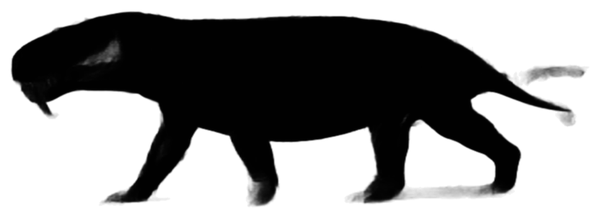
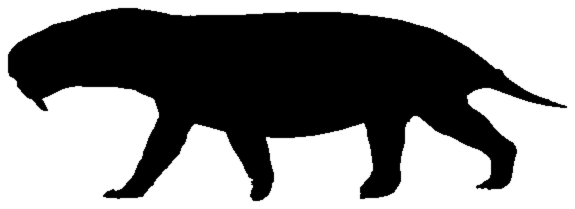
fix(dino): Saurolophus hero + 8 ombres nettoyees + 3 bugs de match de fiche
Audit des 70 dinos (assets vs data vs disque + revue visuelle des 69 ombres).

Saurolophus etait le seul trou complet : fiche data et 5 MP3 presents, mais
zero image, absent de DINO_ASSETS et de DINO_EXTRAS (hero 404, galerie vide).
Hero paleoart genere et valide (crete d'os plein courte, dressee arriere-haut,
conforme au fossile). Les 70 dinos ont desormais un hero.

Trois bugs de generation corriges dans les scripts du skill dino-images-lunii :
- ficheBlock matchait par sous-chaine sans \b : Saurolophus heritait de la
  fiche Parasaurolophus, injectant une crete "tubulaire creuse" (faux, c'est
  justement le trait qui distingue les deux). Verifie : seul ce dino change,
  les 69 autres gardent leur bloc a l'identique.
- '[\s\S]' dans une string s'ecrase en '[sS]' (batch-dino-ombre et
  batch-dino-coloriage) : ficheBlock n'y matchait jamais rien, ces deux
  scripts generaient sans specs morphologiques depuis leur creation.
- delimiteur de fin '### \?' au lieu du caractere '### ❓'.

Ombres : 8 PNG portaient un halo de bavure (alpha semi-transparent parasite
sur 2 a 6 % de l'image, silhouette floue au lieu d'un papier decoupe net).
clean_ombre.py seuille l'alpha, jette les ilots detaches et recadre ; halos
divises par 2 a 4, silhouettes verifiees une a une (pattes, piques, queues
preservees).

Reste ouvert : ombre Saurolophus (le script rend un degrade flou inutilisable,
ombre_from_hero.py pose la piste du detourage mais le decor de foret dense
[…]

diff --git a/site/js/dinos-assets.js b/site/js/dinos-assets.js
@@ -1018,5 +1018,14 @@ window.DINO_ASSETS = {
    "manger": "img/dinos/paleoart/Velociraptor_manger.jpg",
    "paris": "img/dinos/paleoart/Velociraptor_paris.jpg"
   }
+ },
+ "Saurolophus": {
+  "ombre": null,
+  "sprite": null,
+  "tete": null,
+  "avatar": null,
+  "paleoart": {
+   "hero": "img/dinos/paleoart/Saurolophus.jpg"
+  }
  }
 };

diff --git a/studio/dino/content/scripts/images-grok/clean_ombre.py b/studio/dino/content/scripts/images-grok/clean_ombre.py
@@ -1,0 +1,150 @@
+#!/usr/bin/env python
+"""Nettoie le halo de bavure d'une ombre chinoise PNG (alpha semi-transparent parasite).
+
+Probleme traite : les ombres derivees d'images generees gardent une trainee grise
+diffuse autour de la silhouette (alpha entre 20 et 200 sur plusieurs % de l'image).
+A l'ecran, la silhouette parait floue et sale au lieu d'etre un papier decoupe net.
+
+Methode : seuillage franc de l'alpha (binaire), suppression des ilots detaches
+(le halo forme des taches non connectees au sujet), puis re-adoucissement leger
+d'un seul pixel pour garder un bord propre sans escalier. Recadre sur le contenu.
+
+Usage: python clean_ombre.py <in.png> [out.png] [--seuil 128] [--min-ilot 0.002] [--dry]
+       python clean_ombre.py --batch <dir> [...]        (traite tous les *_ombre.png)
+"""
+import sys
+import os
+import glob
+from collections import deque
+
+from PIL import Image, ImageFilter
+
+SEUIL_DEFAUT = 128       # alpha >= seuil -> opaque, sinon transparent
+MIN_ILOT_DEFAUT = 0.002  # un ilot < 0.2% des pixels opaques est du bruit, on le jette
+PAD = 6                  # marge conservee autour du sujet apres recadrage
+
+
+def _plus_gros_ilots(mask, w, h, min_ratio):
+    """Garde les composantes connexes significatives. Retourne un nouveau masque.
+
+    Le halo de bavure se presente en taches detachees du sujet : on les identifie
+    par connexite 8 puis on ne conserve que celles qui pesent assez lourd par
+    rapport a la plus grosse (le sujet). Les pattes fines restent connectees au
+    corps, elles ne sont donc jamais victimes de ce filtre.
+    """
+    total = sum(mask)
+    if total == 0:
+        return mask, 0
+
+    labels = bytearray(w * h)
+    tailles = []
+    for depart in range(w * h):
+        if not mask[depart] or labels[depart]:
+            continue
+        idx = len(tailles) + 1
+        if idx > 250:  # garde-fou : au-dela on ne sait plus etiqueter dans un bytearray
+            break
+        taille = 0
+        q = deque([depart])
+        labels[depart] = idx
+        while q:
+            p = q.popleft()
+            taille += 1
+            x, y = p % w, p // w
+            for dy in (-1, 0, 1):
+                for dx in (-1, 0, 1):
+                    nx, ny = x + dx, y + dy
+                    if 0 <= nx < w and 0 <= ny < h:
+                        np_ = ny * w + nx
+                        if mask[np_] and not labels[np_]:
+                            labels[np_] = idx
+                            q.append(np_)
+        tailles.append(taille)
+
+    if not tailles:
+        return mask, 0
+    plus_gros = max(tailles)
+    garde = {i + 1 for i, t in enumerate(tailles) if t >= plus_gros * min_ratio}
+    out = bytearray(w * h)
+    jetes = 0
+    for i in range(w * h):
+        if mask[i]:
+            if labels[i] in garde:
+                out[i] = 1
+            else:
+                jetes += 1
+    return out, jetes
+
+
+def clean(src, dst, seuil=SEUIL_DEFAUT, min_ilot=MIN_ILOT_DEFAUT, dry=False):
+    im = Image.open(src).convert("RGBA")
+    w, h = im.size
+    alpha = im.split()[3]
+    ap = list(alpha.getdata())
+
+    halo_avant = sum(1 for p in ap if 20 < p < 200)
+
+    mask = bytearray(1 if p >= seuil else 0 for p in ap)
+    mask, jetes = _plus_gros_ilots(mask, w, h, min_ilot)
+
+    # Silhouette pleine et noire : la couleur ne porte aucune information ici,
+    # seul l'alpha compte. On repart d'un noir uni pour tuer les residus de teinte.
+    net = Image.new("L", (w, h), 0)
+    net.putdata([255 if m else 0 for m in mask])
+    # Un seul pixel de flou : assez pour un bord non crenele, trop peu pour un halo.
+    net = net.filter(ImageFilter.GaussianBlur(0.5))
+    out = Image.new("RGBA", (w, h), (0, 0, 0, 0))
+    out.putalpha(net)
+
+    bbox = out.getbbox()
+    if bbox:
+        bbox = (max(0, bbox[0] - PAD), max(0, bbox[1] - PAD),
+                min(w, bbox[2] + PAD), min(h, bbox[3] + PAD))
+        out = out.crop(bbox)
+
+    ap2 = list(out.split()[3].getdata())
+    halo_apres = sum(1 for p in ap2 if 20 < p < 200)
+    pct = lambda n, tot: 100.0 * n / max(tot, 1)
+    print(f"{os.path.basename(src):32} halo {pct(halo_avant, w*h):5.2f}% -> "
+          f"{pct(halo_apres, len(ap2)):5.2f}%  ilots jetes={jetes}  {out.size[0]}x{out.size[1]}"
+          + ("  [dry]" if dry else ""))
+    if not dry:
+        out.save(dst)
+    return halo_avant, halo_apres
+
+
+def main(argv):
+    args = [a for a in argv if not a.startswith("--")]
+    flags = [a for a in argv if a.startswith("--")]
+    dry = "--dry" in flags
+    seuil = SEUIL_DEFAUT
+    min_ilot = MIN_ILOT_DEFAUT
+    for f in flags:
+        if f.startswith("--seuil"):
+            seuil = int(f.split("=", 1)[1]) if "=" in f else seuil
+        if f.startswith("--min-ilot"):
+            min_ilot = float(f.split("=", 1)[1]) if "=" in f else min_ilot
+
+    if "--batch" in flags:
+        if not args:
+            print("usage: clean_ombre.py --batch <dir>")
+            return 1
+        cibles = sorted(glob.glob(os.path.join(args[0], "*_ombre.png")))
+        if not cibles:
+            print(f"aucun *_ombre.png dans {args[0]}")
+            return 1
+        for p in cibles:
+            clean(p, p, seuil, min_ilot, dry)
+        return 0
+
+    if not args:
+        print(__doc__)
+        return 1
+    src = args[0]
+    dst = args[1] if len(args) > 1 else src
+    clean(src, dst, seuil, min_ilot, dry)
+    return 0
+
+
+if __name__ == "__main__":
+    sys.exit(main(sys.argv[1:]))

diff --git a/studio/dino/content/scripts/images-grok/ombre_from_hero.py b/studio/dino/content/scripts/images-grok/ombre_from_hero.py
@@ -1,0 +1,138 @@
+#!/usr/bin/env python
+"""Derive une ombre chinoise PROPRE a partir d'une scene paleoart couleur.
+
+Pourquoi : demander la silhouette a l'IA donne des degrades flous (halo de bavure,
+cf. incident 2026-07-30) ET redistribue les traits morphologiques au hasard — la
+crete de Saurolophus revenait fausse a chaque tirage. Decouper l'animal dans le
+hero DEJA VALIDE garantit la bonne bete, la bonne crete, et un noir franc.
+
+Methode : l'operateur donne un point interieur a l'animal (ou on prend le centre),
+on segmente par proximite de couleur en 8-connexite depuis ce germe (l'animal est
+d'une teinte homogene face au vert du decor), on remplit les trous, on seuille dur,
+puis on ecrit un PNG noir plein sur alpha transparent, recadre avec une petite marge.
+
+Usage:
+  python ombre_from_hero.py <hero.jpg> <out_ombre.png> [--seed x,y] [--tol 42]
+                            [--largeur 600] [--dry]
+"""
+import sys
+import os
+from collections import deque
+
+from PIL import Image, ImageFilter
+
+TOL_DEFAUT = 42        # ecart de couleur max (somme RGB) accepte depuis le germe
+LARGEUR_DEFAUT = 600   # largeur de sortie, alignee sur les ombres existantes
+PAD = 6
+
+
+def segmente(im, seed, tol):
+    """Region growing 8-connexe depuis seed, sur proximite de couleur locale."""
+    w, h = im.size
+    px = im.load()
+    sx, sy = seed
+    ref = px[sx, sy][:3]
+    dedans = bytearray(w * h)
+    q = deque([(sx, sy)])
+    dedans[sy * w + sx] = 1
+
+    def proche(c, r):
+        return abs(c[0] - r[0]) + abs(c[1] - r[1]) + abs(c[2] - r[2]) <= tol
+
+    while q:
+        x, y = q.popleft()
+        cur = px[x, y][:3]
+        for dy in (-1, 0, 1):
+            for dx in (-1, 0, 1):
+                if dx == 0 and dy == 0:
+                    continue
+                nx, ny = x + dx, y + dy
+                if 0 <= nx < w and 0 <= ny < h and not dedans[ny * w + nx]:
+                    c = px[nx, ny][:3]
+                    # on compare au voisin courant ET au germe : suit les degrades
+                    # du corps sans deborder dans le decor.
+                    if proche(c, cur) and proche(c, ref):
+                        dedans[ny * w + nx] = 1
+                        q.append((nx, ny))
+    return dedans
+
+
+def remplis_trous(mask, w, h):
+    """Bouche les poches internes (oeil, reflets) : flood depuis le bord sur le vide."""
+    dehors = bytearray(w * h)
+    q = deque()
+    for x in range(w):
+        for y in (0, h - 1):
+            i = y * w + x
+            if not mask[i] and not dehors[i]:
+                dehors[i] = 1
+                q.append((x, y))
+    for y in range(h):
+        for x in (0, w - 1):
+            i = y * w + x
+            if not mask[i] and not dehors[i]:
+                dehors[i] = 1
+                q.append((x, y))
+    while q:
+        x, y = q.popleft()
+        for dx, dy in ((1, 0), (-1, 0), (0, 1), (0, -1)):
+            nx, ny = x + dx, y + dy
+            if 0 <= nx < w and 0 <= ny < h:
+                i = ny * w + nx
+                if not mask[i] and not dehors[i]:
+                    dehors[i] = 1
+                    q.append((nx, ny))
+    return bytearray(0 if dehors[i] else 1 for i in range(w * h))
+
+
+def main(argv):
+    args = [a for a in argv if not a.startswith('--')]
+    flags = {a.split('=')[0]: (a.split('=', 1)[1] if '=' in a else True) for a in argv if a.startswith('--')}
+    if len(args) < 2:
+        print(__doc__)
+        return 1
+    src, dst = args[0], args[1]
+    tol = int(flags.get('--tol', TOL_DEFAUT))
+    largeur = int(flags.get('--largeur', LARGEUR_DEFAUT))
+    dry = '--dry' in flags
+
+    im = Image.open(src).convert('RGB')
+    w, h = im.size
+    if '--seed' in flags and flags['--seed'] is not True:
+        sx, sy = (int(v) for v in str(flags['--seed']).split(','))
+    else:
+        sx, sy = w // 2, h // 2
+    print(f"{os.path.basename(src)} {w}x{h}  germe=({sx},{sy}) tol={tol}")
+
+    mask = segmente(im, (sx, sy), tol)
+    couvert = sum(mask)
+    print(f"  region: {couvert} px ({100.0*couvert/(w*h):.1f}% de l'image)")
+    if couvert < w * h * 0.02:
+        print("  ATTENTION region minuscule — germe hors de l'animal ou tol trop bas.")
+    if couvert > w * h * 0.75:
+        print("  ATTENTION region enorme — la couleur a fui dans le decor, baisse --tol.")
+
+    mask = remplis_trous(mask, w, h)
+
+    sil = Image.new('L', (w, h), 0)
+    sil.putdata([255 if m else 0 for m in mask])
+    sil = sil.filter(ImageFilter.MedianFilter(5))   # mange les pixels isoles
+    sil = sil.point(lambda v: 255 if v >= 128 else 0)
+
+    out = Image.new('RGBA', (w, h), (0, 0, 0, 0))
+    out.putalpha(sil.filter(ImageFilter.GaussianBlur(0.5)))
+    bbox = out.getbbox()
+    if bbox:
+        bbox = (max(0, bbox[0] - PAD), max(0, bbox[1] - PAD),
+                min(w, bbox[2] + PAD), min(h, bbox[3] + PAD))
+        out = out.crop(bbox)
+    if out.width > largeur:
+        out = out.resize((largeur, max(1, round(out.height * largeur / out.width))), Image.LANCZOS)
+    print(f"  -> {out.size[0]}x{out.size[1]}" + ("  [dry]" if dry else ""))
+    if not dry:
+        out.save(dst)
+    return 0
+
+
+if __name__ == '__main__':
+    sys.exit(main(sys.argv[1:]))
